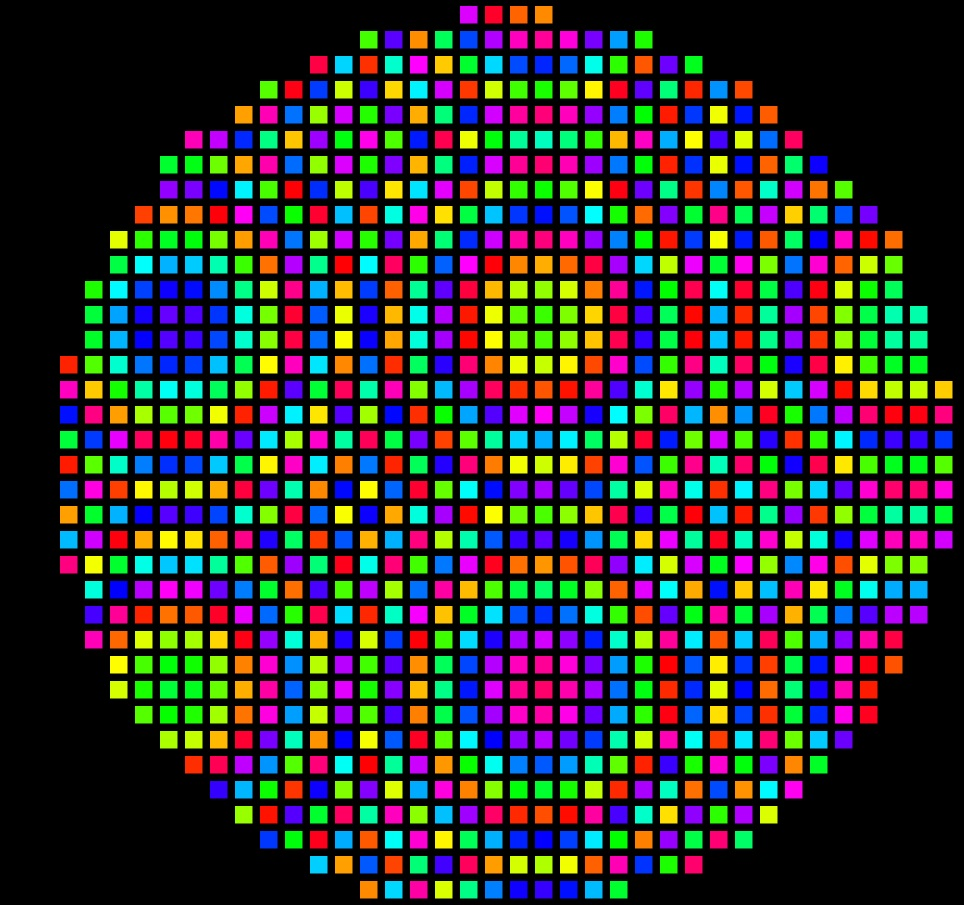
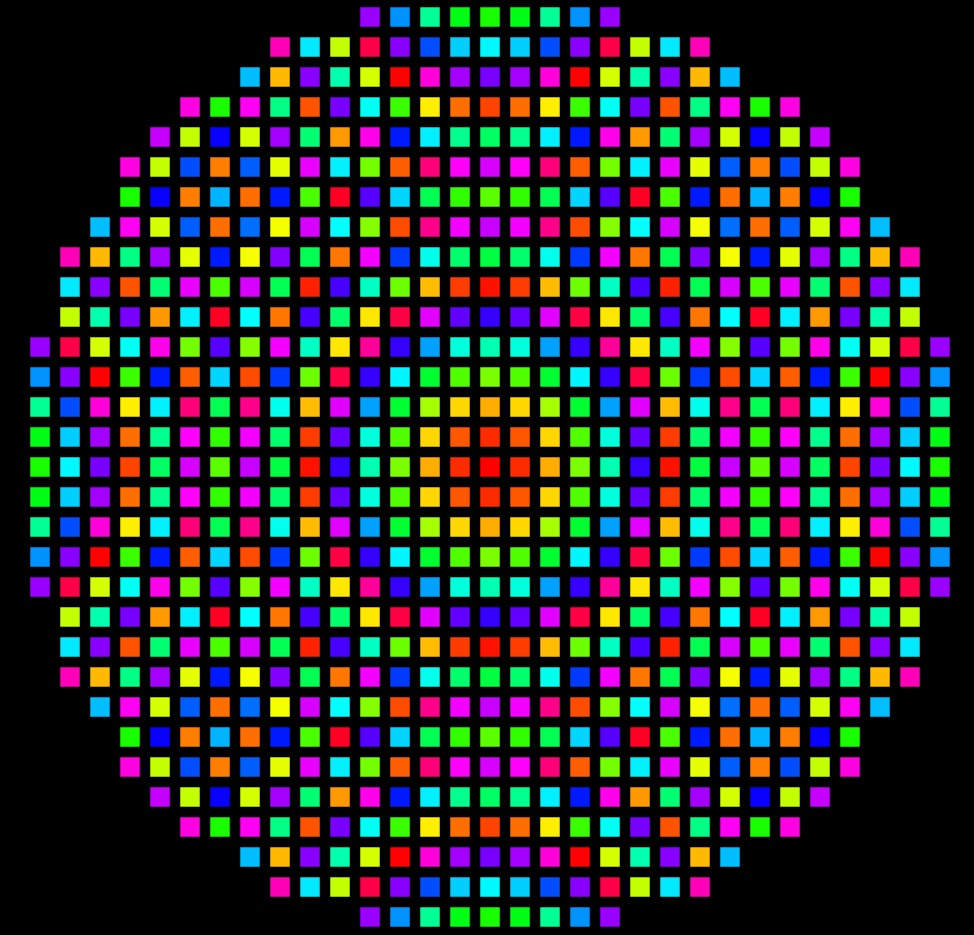
stopped the rotation nonsense

diff --git a/posts/anglehue_nospin/sketch.js b/posts/anglehue_nospin/sketch.js
@@ -1,7 +1,8 @@
 
 
 function setup() {
-	createCanvas(windowWidth, windowHeight, P2D);
+	createCanvas(windowWidth, windowHeight);
+	rectMode(CENTER);
 	colorMode(HSB, 1, 1, 1, 1);
 }
 
@@ -10,37 +11,42 @@ function windowResized() {
 }
 
 function draw() {
-	var detail = 25;
+	var detail = 30;
 	var mx = map(mouseX, 0, width, .00001, .00026);
   background(0);
-  stroke(255);
-  strokeWeight(8);
-  var cx = width/2;
-  var cy = height/2;
-  var r = 449;
-  for (var x = 0; x < width; x+= detail) {
-    for (var y = 0; y < height; y+= detail) {
-      var d = dist(x, y, cx, cy);
+	noStroke();
+  var r = min(height/2, width/2);
+	push();
+	translate(width/2, height/2);
+  for (var x = -width/2; x < width/2; x+= detail) {
+    for (var y = -width/2; y < height/2; y+= detail) {
+      var d = dist(x, y, 0, 0);
       if (d<r) {
 				if(mouseX == 0 && mouseY == 0){
 					mx = .00012;
 				}
         var a = radians(.6*d*d*frameCount*mx)%PI;
         var p = map(a, 0, PI, 0, 1);
-				noStroke();
 				fill(p,1,1);
         //stroke(p, 1, 1);
 				push();
 				translate(x,y);
 				//rotate(a);
-				rect(0,0,detail*.7,detail*.7);
+				rect(0,0,detail*.65,detail*.65);
 				//line(-detail*.36, 0, detail*.36,0);
 				pop();
       }
     }
   }
+	pop();
 	noStroke();
-	fill(1);
+	fill(255);
 	textSize(26);
 	text("speed: " + nf(mx*10000, 1,1), width-150, 50);
+	/*
+	crosshair
+	stroke(255);
+	line(width/2, 0, width/2, height);
+	line(0, height/2,width,  height/2);
+	*/
 }

diff --git a/index.html b/index.html
@@ -22,18 +22,9 @@
 <body>
   <!--put new up here-->
   <div class=floated_img>
-      <a href="https://krabcode.github.io/posts/anglehue_mosaic/post"><img src="screens/mosaic.jpg" title="Mosaic" alt="Mosaic"></a>
+      <a href="https://krabcode.github.io/posts/anglehue_nospin/post"><img src="screens/nospin.jpg" title="Mosaic" alt="Mosaic"></a>
         <p>Mosaic</p>
   </div>
-
-  <!--div class=floated_img>
-      <a href="https://krabcode.github.io/posts/anglehue_onlyspin/post"><img src="screens/onlyspin.jpg" title="Only-spin" alt="Only-spin"></a>
-        <p>Line spin</p>
-  </div-->
-  <!--div class=floated_img>
-      <a href="https://krabcode.github.io/posts/anglehue_nospin/post"><img src="screens/nospin.jpg" title="Only-color" alt="Only-color"></a>
-        <p>Rect color</p>
-  </div!-->
 
   <div class=floated_img>
       <a href="https://krabcode.github.io/posts/anglehue/post"><img src="screens/anglehue.jpg" title="Anglehue" alt="Anglehue"></a>

diff --git a/posts/anglehue_nospin/post.html b/posts/anglehue_nospin/post.html
@@ -1,7 +1,7 @@
 <!DOCTYPE html>
 <html>
 <head>
-<title>Only-color</title>
+<title>Mosaic</title>
 <link rel="shortcut icon" type="image/png" href="https://krabcode.github.io/favicon.png"/>
 <link rel="stylesheet" href="../../styles/sketch.css">
 <script src="../../lib/p5.js"></script>
